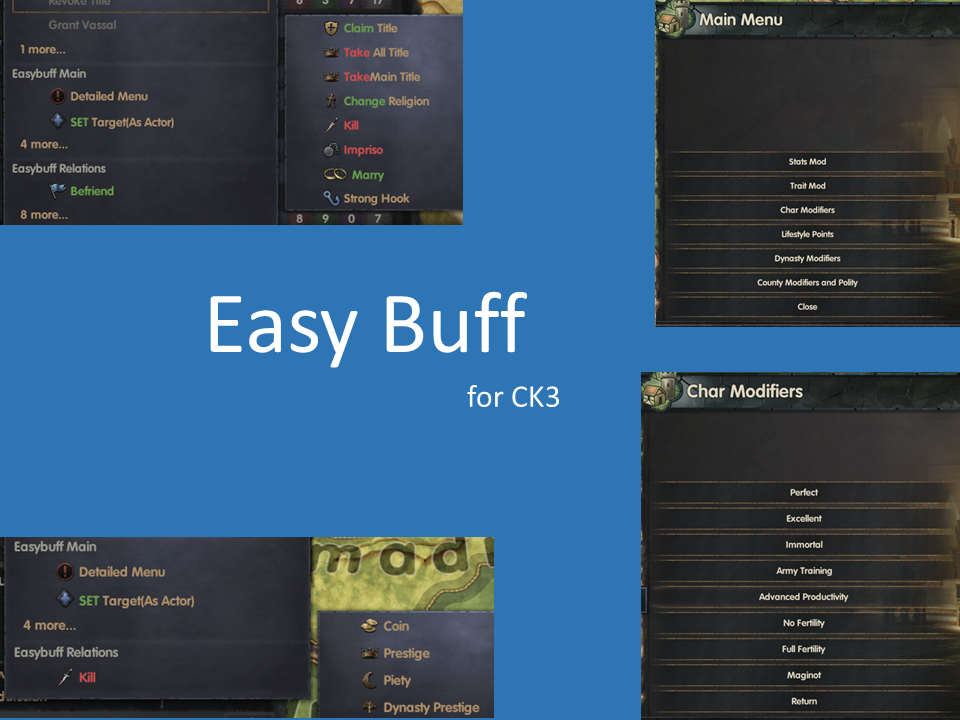
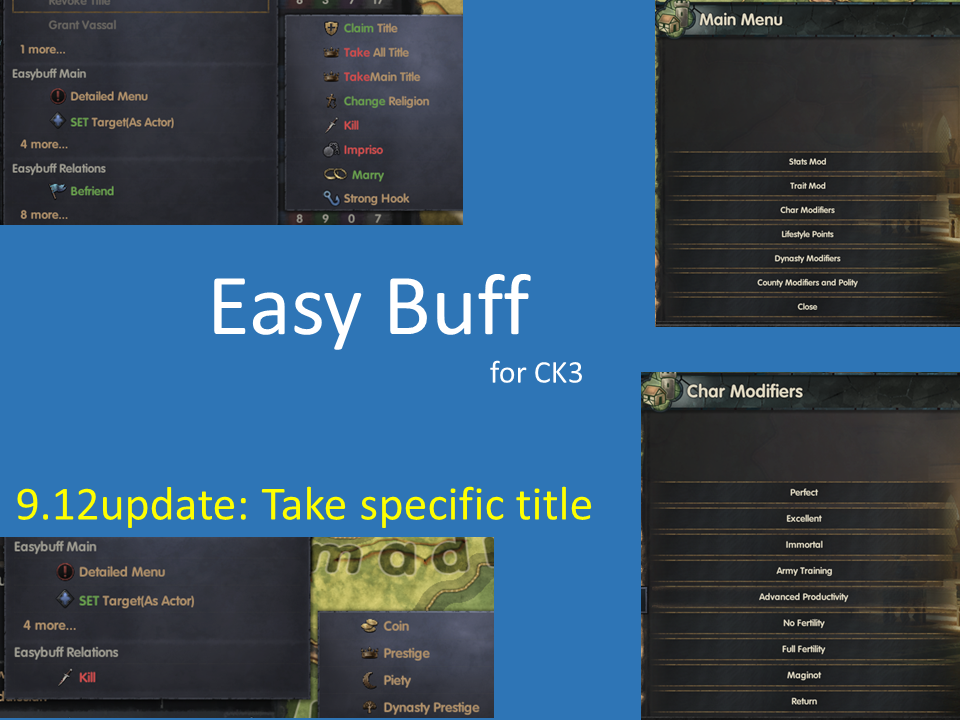
fix local

Changed region(s): [[0.2188, 0.3667, 0.625, 0.5806], [0.2812, 0.6722, 0.625, 0.7333], [0.0, 0.6722, 0.25, 0.7333]]

diff --git a/_Inkitmod/Easybuff/info.md b/_Inkitmod/Easybuff/info.md
@@ -6,7 +6,7 @@ A cheat mod.
 # Features:
 * Give Coin, Prestige, Piety, Dynasty Prestige to any one.
 * Interactions to any one.
-* [b]Take any specific title and give to "target" or yourself [b] (the land of interact target stands on: for choosing the specific title.).
+* [b]Take any specific title and give to "target" or yourself [/b] (the land of interact target stands on: for choosing the specific title.).
 * Rename.
 * [b]Set a target and interact to others.[/b] So you can create more relations between others as you wish.
 * A detailed menu to do more things.
